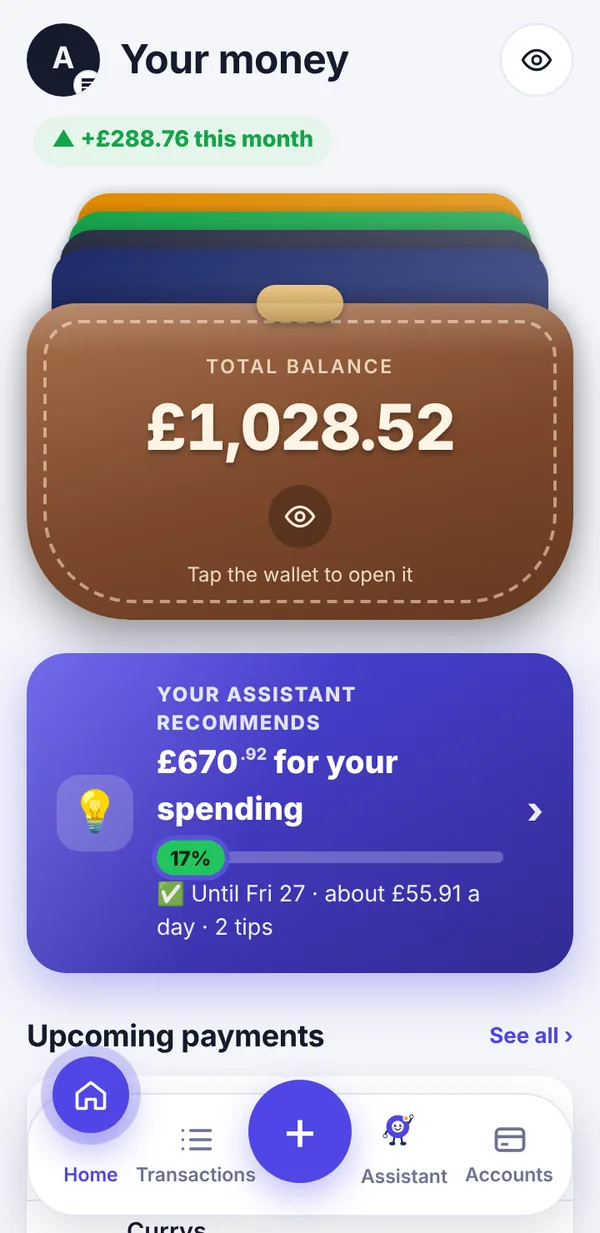
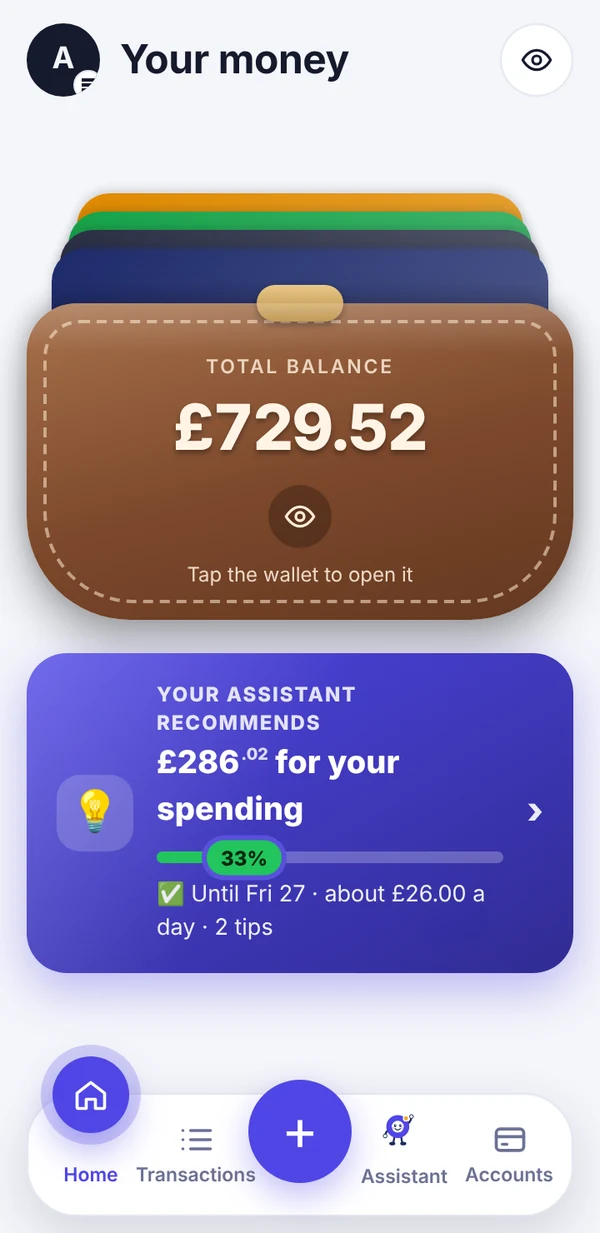
Web: demo «Pruébala aquí» con pantallas nuevas de Mis Finanzas 2.10.x
- Capturas nuevas (ES y EN) de la demo: antes y después de apuntar £17.43
- Cifras de «Para tus gastos» actualizadas: £286.02 → £268.59
- Sin aviso rojo del mes en las capturas (mes tranquilo)

Claude-Session: https://claude.ai/code/session_01PwMX3GkVNcqjtm8yA72FrD

diff --git a/index.html b/index.html
@@ -677,7 +677,7 @@ footer .bajo{border-top:1px solid var(--line);margin-top:44px;padding-top:24px;f
           <button type="button" class="pguardar" id="pGuardar" data-es="Guardar" data-en="Save">Guardar</button>
           <div class="ptoast" id="pToast" data-es="Gasto guardado: £17.43" data-en="Expense saved: £17.43">Gasto guardado: £17.43</div>
         </div></div>
-        <p class="pcambio" id="pCambio" data-es="Para tus gastos: <s>£670.92</s> → <b>£653.49</b>" data-en="For your spending: <s>£670.92</s> → <b>£653.49</b>">Para tus gastos: <s>£670.92</s> → <b>£653.49</b></p>
+        <p class="pcambio" id="pCambio" data-es="Para tus gastos: <s>£286.02</s> → <b>£268.59</b>" data-en="For your spending: <s>£286.02</s> → <b>£268.59</b>">Para tus gastos: <s>£286.02</s> → <b>£268.59</b></p>
       </div>
     </div>
   </div>
